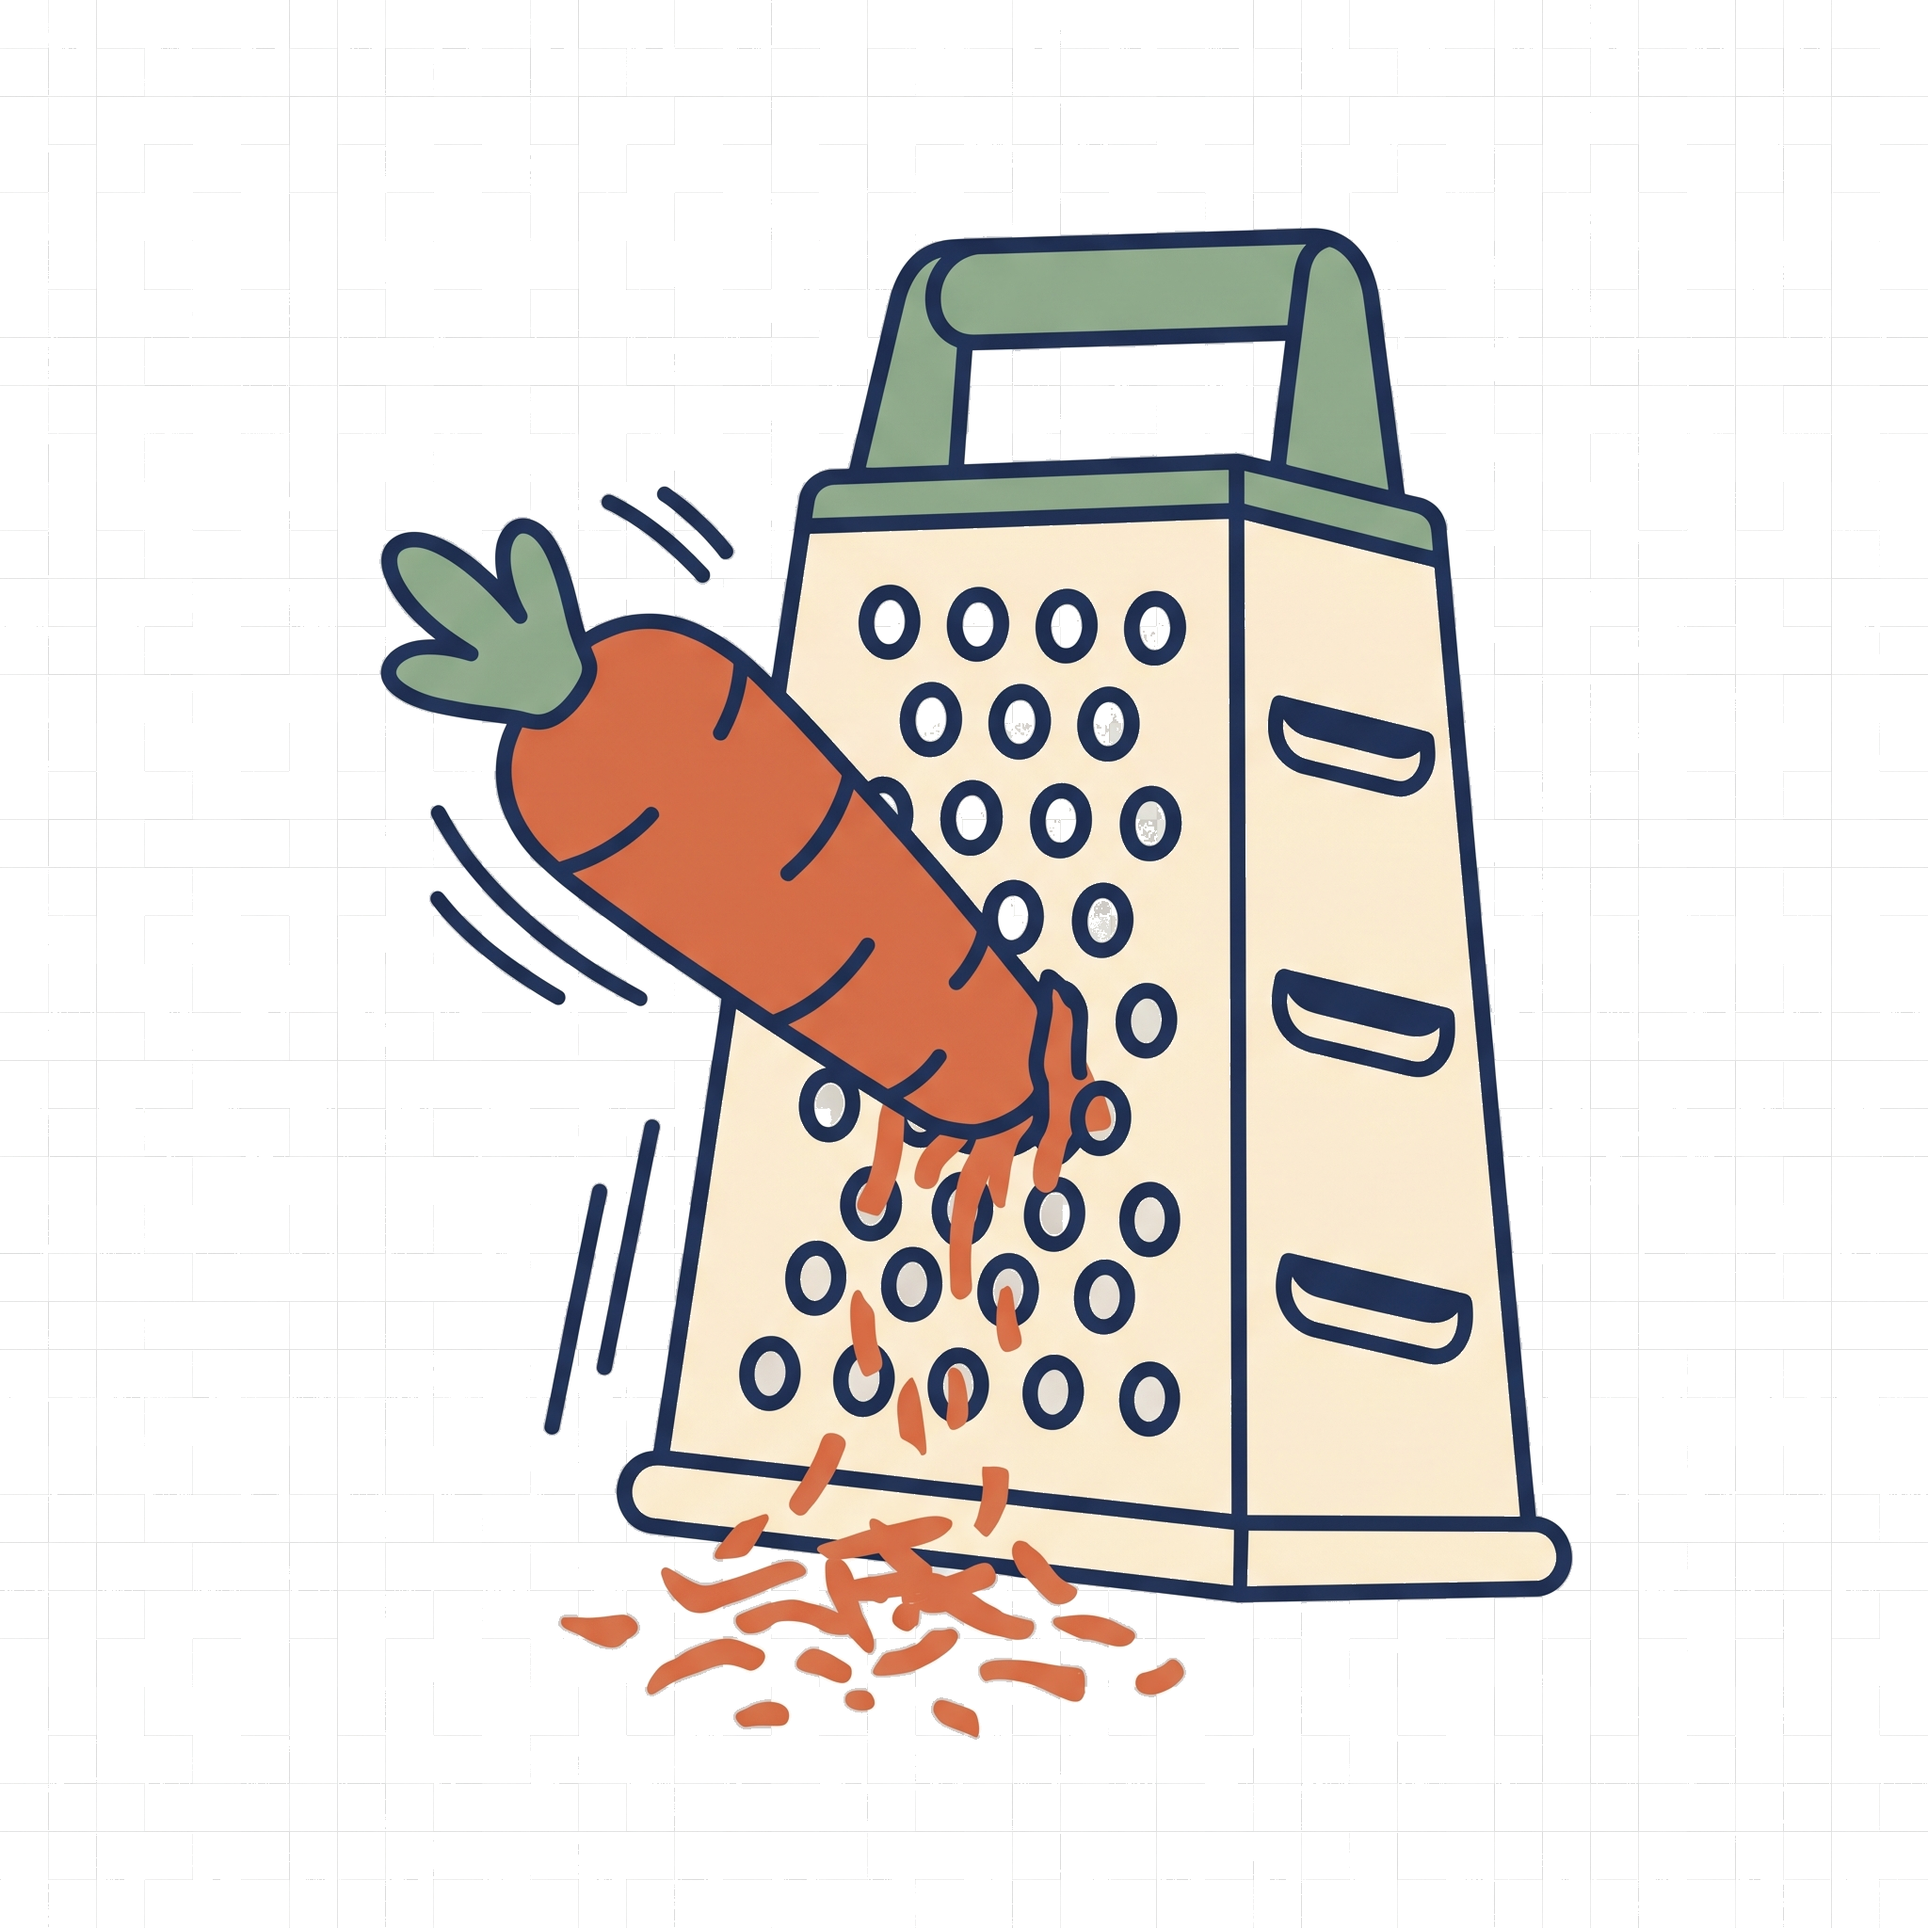
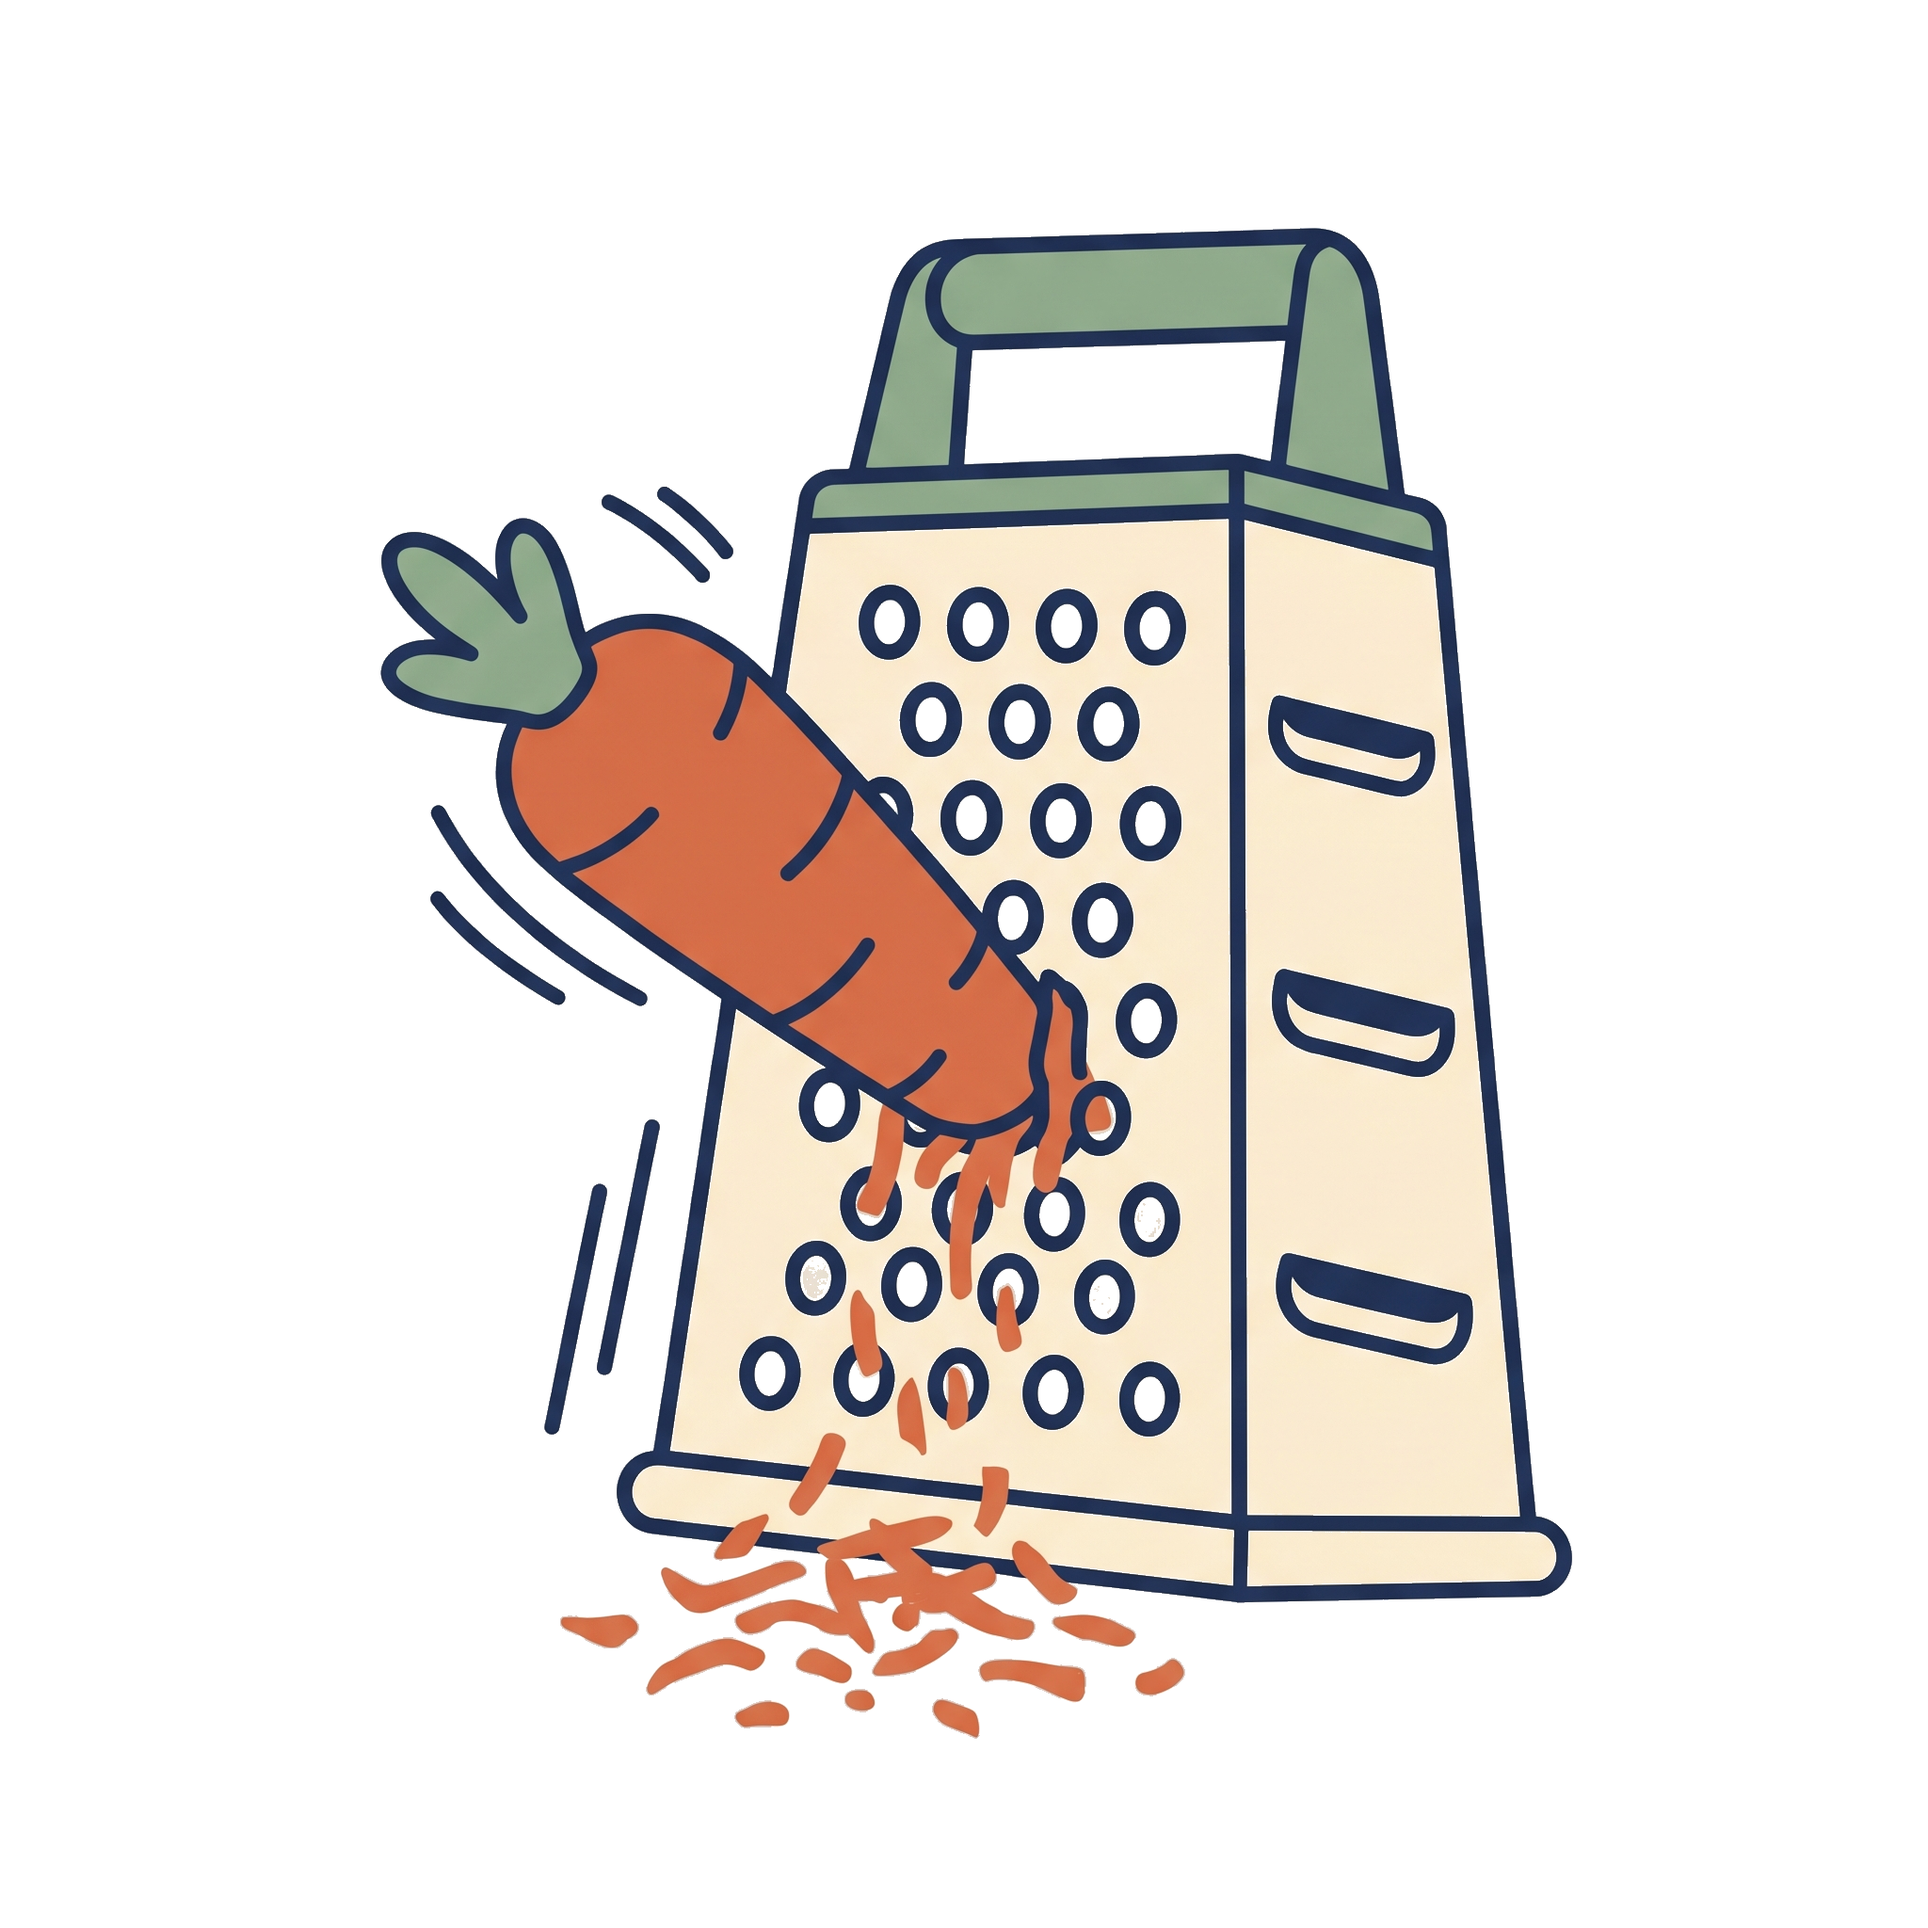
Ikonlardaki kalinti dama deseni tamamen temizlendi (yontem sadelestirildi), boyut 150px'e buyutuldu

diff --git a/pages/5_Tarif_Kutuphanesi.py b/pages/5_Tarif_Kutuphanesi.py
@@ -361,7 +361,7 @@ if tarif["hazirlik_talimati"]:
             st.write(_satir)
             _satir_ikonlari = tum_ikonlari_bul(_satir)
             if _satir_ikonlari:
-                st.image(_satir_ikonlari, width=110)
+                st.image(_satir_ikonlari, width=150)
         else:
             st.write("")
 else:

diff --git a/PROJE_NOTLARI.md b/PROJE_NOTLARI.md
@@ -4712,3 +4712,35 @@ yoğurma, ızgara) doğru kaldı.
 
 **Dosya durumu:** `asama_ikonlari.py`, `pages/5_Tarif_Kutuphanesi.py`
 güncellendi.
+
+
+### 30 Ağustos 2026 — XI. Oturum (devam): İkonlarda Kalıntı Dama Deseni Tamamen Temizlendi, Boyut Büyütüldü (150px)
+
+Kullanıcı ekran görüntüsünde "Kıyma sotesi" ikonunun arka planında
+hafif bir dama deseni fark etti. İncelemede KÖK NEDEN bulundu: önceki
+şeffaflaştırma yöntemi (köşe/kenar örneklemesiyle "2 baskın ton"
+bulma) bazı görsellerde (kavurma, kızartma, karıştırma, marine_etme)
+dama deseninin GERÇEK ikinci tonunu (ör. 207 gri) hiç yakalayamıyordu
+-- sadece beyaza yakın tonu temizleyip diğerini opak bırakıyordu.
+
+**Kalıcı çözüm:** Yöntem tamamen basitleştirildi -- "2 ayrık ton
+kümeleme" yerine, TEK bir geniş kural kullanıldı: gri-tonlu (kanallar
+arası fark < 22) VE yeterince açık (parlaklık > 178) olan HER piksel
+şeffaf yapılıyor. Bu ikon setinin kendi renk paleti (rust/adaçayı/krem/
+lacivert) hiçbir yerde saf gri kullanmadığı için bu geniş kural, gerçek
+çizim içeriğine zarar vermeden hem kalın kare hem ince çizgi hem sıcak
+tonlu dama desenlerini kapsıyor.
+
+**Doğrulama:** Her 20 ikon için otomatik kontrol eklendi (kenar şeridi
+boyunca beyaza yapıştırılıp beyaz-dışı piksel oranı ölçülüyor) --
+tümü artık temiz. İki "false positive" (dinlendirme, izgara -- bunlar
+geniş banner formatında, içerik gerçekten kenara kadar uzanıyor, kalıntı
+değil) görsel olarak doğrulanıp normal kabul edildi. `rendeleme`
+ikonundaki rende delikleri de artık doğru şekilde şeffaf (bonus
+iyileştirme -- önceden opak beyazdı).
+
+**Ayrıca:** kullanıcı isteğiyle ikon boyutu 110px'ten 150px'e
+büyütüldü.
+
+**Dosya durumu:** `pages/5_Tarif_Kutuphanesi.py` güncellendi (boyut);
+20 ikon PNG'si YENİDEN üretilip değiştirildi (aynı dosya adlarıyla).
